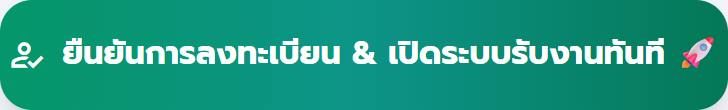
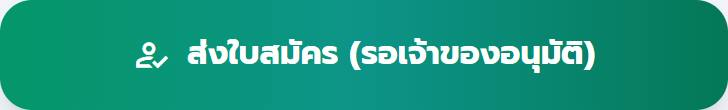
fix(rider): honest submit label, drop bonus promises that do not exist
- on-page rider form button: "ส่งใบสมัคร (รอเจ้าของอนุมัติ)" instead of
  "เปิดระบบรับงานทันที" (applicants must wait for owner approval)
- remove rain / 10-trip bonus promises from the rider modal and the home
  rider banner (no code pays them); show payout + own shifts instead
- guide-rider.html + screenshot follow the new label
- build-test-site.js copies guide.css and guide-rider.html

Changed region(s): [[0.0, 0.3273, 0.9973, 0.6818]]

diff --git a/index.html b/index.html
@@ -857,7 +857,7 @@
                                     <span
                                         class="text-xs font-black text-sky-200 truncate">ร่วมทีมไรเดอร์ส่งของสดเฮียส่ง</span>
                                 </div>
-                                <p class="text-[11px] text-slate-300 mt-0.5">ค่ารอบเริ่มต้น ฿40/เที่ยว • โบนัสฝนตก •
+                                <p class="text-[11px] text-slate-300 mt-0.5">ค่ารอบเริ่มต้น ฿40/เที่ยว •
                                     รับเงินไว 0% GP</p>
                             </div>
                         </div>
@@ -2233,7 +2233,7 @@
                             <button type="submit"
                                 class="w-full py-3.5 bg-gradient-to-r from-emerald-600 via-teal-600 to-emerald-700 hover:from-emerald-700 hover:to-teal-800 text-white font-black text-sm rounded-2xl shadow-lg active:scale-95 transition-all flex items-center justify-center gap-2 cursor-pointer">
                                 <span class="material-symbols-outlined text-lg font-bold">how_to_reg</span>
-                                <span>ยืนยันการลงทะเบียน & เปิดระบบรับงานทันที 🚀</span>
+                                <span>ส่งใบสมัคร (รอเจ้าของอนุมัติ)</span>
                             </button>
                         </div>
                     </form>
@@ -6524,12 +6524,12 @@
                                 <span>ค่ารอบเริ่มต้น <strong>฿40</strong>/เที่ยว</span>
                             </div>
                             <div class="bg-white/80 p-2 rounded-xl border border-sky-100 flex items-center gap-1.5">
-                                <span class="text-base">🌧</span>
-                                <span>มีโบนัสพิเศษช่วงฝนตก</span>
+                                <span class="text-base">🏦</span>
+                                <span>โอนค่ารอบเข้าพร้อมเพย์/บัญชีของคุณ</span>
                             </div>
                             <div class="bg-white/80 p-2 rounded-xl border border-sky-100 flex items-center gap-1.5">
-                                <span class="text-base">🎯</span>
-                                <span>โบนัสสะสมครบ 10 เที่ยว</span>
+                                <span class="text-base">🕒</span>
+                                <span>เลือกช่วงเวลารับงานเองได้</span>
                             </div>
                         </div>
                     </div>

diff --git a/guide-rider.html b/guide-rider.html
@@ -169,10 +169,10 @@
         <div class="step">
             <div class="step-head"><span class="num">10</span><h3>กดส่งใบสมัคร</h3></div>
             <ol>
-                <li>กดปุ่มสีเขียวล่างสุด <span class="btn-name">ยืนยันการลงทะเบียน</span></li>
+                <li>กดปุ่มสีเขียวล่างสุด <span class="btn-name">ส่งใบสมัคร (รอเจ้าของอนุมัติ)</span></li>
                 <li>จะมีข้อความ "กำลังส่งข้อมูลและรูปเอกสาร" <strong>รอจนเสร็จ ห้ามกดซ้ำ และห้ามปิดหน้าเว็บ</strong></li>
             </ol>
-            <figure><img src="images/guide/rider/r11-submit.jpg" width="728" height="110" loading="lazy" alt="ปุ่มยืนยันการลงทะเบียน สีเขียว"></figure>
+            <figure><img src="images/guide/rider/r11-submit.jpg" width="728" height="110" loading="lazy" alt="ปุ่มส่งใบสมัคร สีเขียว"></figure>
             <p>ถ้ากรอกบางช่องไม่ครบ หน้าเว็บจะเลื่อนไปที่ช่องนั้นเอง และขึ้นข้อความเตือน ดูวิธีแก้ในตารางนี้:</p>
             <table class="fix">
                 <thead><tr><th>ข้อความที่เห็น</th><th>ต้องทำอะไร</th></tr></thead>

diff --git a/firebase-rules/tools/build-test-site.js b/firebase-rules/tools/build-test-site.js
@@ -38,7 +38,7 @@ let cfg = read("firebase-config.js")
 write("firebase-config.js", cfg);
 
 // ไฟล์อื่นที่เว็บใช้
-["styles.css", "line_oa_qr.png", "promptpay_qr.png", "qrcode_hsong.png"].forEach(f => { if (fs.existsSync(path.join(root, f))) fs.copyFileSync(path.join(root, f), path.join(pub, f)); });
+["styles.css", "guide.css", "guide-rider.html", "line_oa_qr.png", "promptpay_qr.png", "qrcode_hsong.png"].forEach(f => { if (fs.existsSync(path.join(root, f))) fs.copyFileSync(path.join(root, f), path.join(pub, f)); });
 fs.cpSync(path.join(root, "images"), path.join(pub, "images"), { recursive: true });
 
 // ตั้งค่า Firebase CLI ให้ชี้ hsong-test เท่านั้น

diff --git a/CLAUDE.md b/CLAUDE.md
@@ -255,14 +255,15 @@ Problem found 2026-09-21: anyone can write text into the shared database (applic
 - Verified live in an offline sandbox: merchant tab 2 shows the condensed banners and darker product-card borders with real placeholder examples; switched to the rider guest page (`switchRole('rider')`) - the onpage form's 3 sections and the shared extras sections (scrolled to bottom: bank accounts, consent) all show the same darker box treatment with no double-boxing; opened the separate rider modal (`openRiderRegisterModal()`) - same darker boxes, and the LINE banner now sits directly above its submit button, not at the top.
 - **Pushed to production same day** on the owner's instruction (`อัปขึ้นเว็บจริงได้เลย` given up front, before this work started) - see git log for the push commit hash.
 
-## 📖 5v. Rider guide page for applicants (`guide-rider.html` + `guide.css`, code `app.js?v=10.54_rider_guide`; committed locally, NOT pushed yet)
+## 📖 5v. Rider guide page for applicants (`guide-rider.html` + `guide.css`, code `app.js?v=10.54_rider_guide`; on hsong-test, NOT pushed to production yet)
 - **Owner's request (2026-09-24):** a guide for people applying as riders (and later merchants) with 2 parts: (1) how to register successfully with complete data, (2) how to use the role after logging in; placed where people register. Owner chose: a WEB PAGE (not PDF), WITH screenshots, rider guide first, merchant guide later in the same style.
 - **Files:** `guide-rider.html` (static page, NO `<script>`, no Firebase - safe to open anywhere), `guide.css` (shared style meant for the future merchant guide too: 19px base text, dark-mode tokens, print CSS), screenshots in `images/guide/rider/*.jpg` (~1 MB, 20 images). Contact = the existing public LINE OA `https://lin.ee/61O4EyH` + `images/line_oa_qr.png` (owner did not give another channel).
 - **Content:** overview flow (prepare -> apply -> owner checks -> password by SMS/LINE -> log in), a checklist of what to prepare (3 required photos from `RIDER_DOC_SLOTS`), each form section 1-8 with a picture, a "message you see -> what to do" table using the REAL validation texts, the pending notice + password rules, login + lockout, the 3 workspace tabs (job board, current job incl. COD / change envelope / arrival buttons, wallet + hand COD cash to the hub the same evening), FAQ (forgot password, privacy: what only the owner sees vs what customers/merchants see), contact. Deliberately NOT included: the "rain bonus" / "10-trip bonus" promised in the rider modal's benefits card - no code implements them.
 - **Links in the app (all open a NEW TAB so typed form data is not lost):** `#rider-guide-link-onpage` (top of the on-page form -> `#prepare`), `#rider-guide-link-modal` (top of `#rider-register-modal`), `#rider-guide-link-login` (login box -> `#part2`), `#rider-guide-link-workspace` (own slim row UNDER the 3 workspace tabs - putting it inside the tab bar squeezed the tabs and got cut off at 390px), plus a link in `renderRiderApplicationNotice()` (`#after`, or `#part2` when approved).
 - **Screenshots are generated, not hand-made:** taken with `puppeteer-core` + the installed Edge, headless, 390x844 @2x, from the OFFLINE sandbox (fake host `127.0.0.1:9`), fake sample people/orders only (e.g. RD4821, "คุณมาลี (ตัวอย่าง)"). The script lives in the session scratchpad, not the repo; recipe: open sandbox, `switchRole('rider')`, `fillOnPageRiderSampleData()`, element screenshots of each `#onpage-rider-reg-form > div.p-3\.5` / `#onpage-rider-extras > div`, notice via `sessionStorage talathub_rider_app_notice`, workspace via `loginRiderWithProfile(fake)` + a fake `state.activeOrder` / `state.merchantExpressOrders`; inject CSS to make `.sticky` static and hide `#toast-message`. Re-take them whenever these screens change.
 - **Rule for future work:** changing the rider registration form, rider login, or rider workspace means updating `guide-rider.html` (and screenshots if the look changed). Test `firebase-rules/tests/guide-rider.test.js` (83 checks) fails when a button name quoted in the guide (`<span class="btn-name">`) or a quoted message no longer exists in `index.html`/`app.js`, an image file is missing, an app link points at a missing anchor or is not `target="_blank"`, or a number in the guide (3 required docs, 15 MB, 3 accounts, 8-char password without O/I/L/0/1, 5 tries / 5 min lock, ฿40 per trip) no longer matches the code.
-- **Found while writing it (not fixed, owner to decide):** the on-page submit button still says "ยืนยันการลงทะเบียน & เปิดระบบรับงานทันที 🚀" although applicants must wait for approval (the guide warns about this); the rider modal advertises bonuses that do not exist.
+- **Fixed the same day on the owner's decision:** the on-page submit button said "ยืนยันการลงทะเบียน & เปิดระบบรับงานทันที 🚀" although applicants must wait for approval -> now "ส่งใบสมัคร (รอเจ้าของอนุมัติ)". Removed the rider-facing bonus promises that no code implements ("มีโบนัสพิเศษช่วงฝนตก", "โบนัสสะสมครบ 10 เที่ยว" in `#rider-register-modal`, "โบนัสฝนตก" in the home rider banner); replaced with true facts (payout to PromptPay/bank, choose your own shifts). Owner-side bonus fields (`#rider-payout-modal`, admin rate settings) were left alone.
+- `firebase-rules/tools/build-test-site.js` now also copies `guide.css` and `guide-rider.html`. Deployed to https://hsong-test.web.app on 2026-09-24 (verified: guide, css and images return 200; new button label and 4 guide links present; bonus promises gone).
 
 ## ⚠ 6. Known Constraints (update when resolved)
 - (Resolved) Personal data (ID numbers, addresses, driver-license photos in `rider_documents/<riderId>`, `rider_private`) is owner-read only since the owner-auth release.
